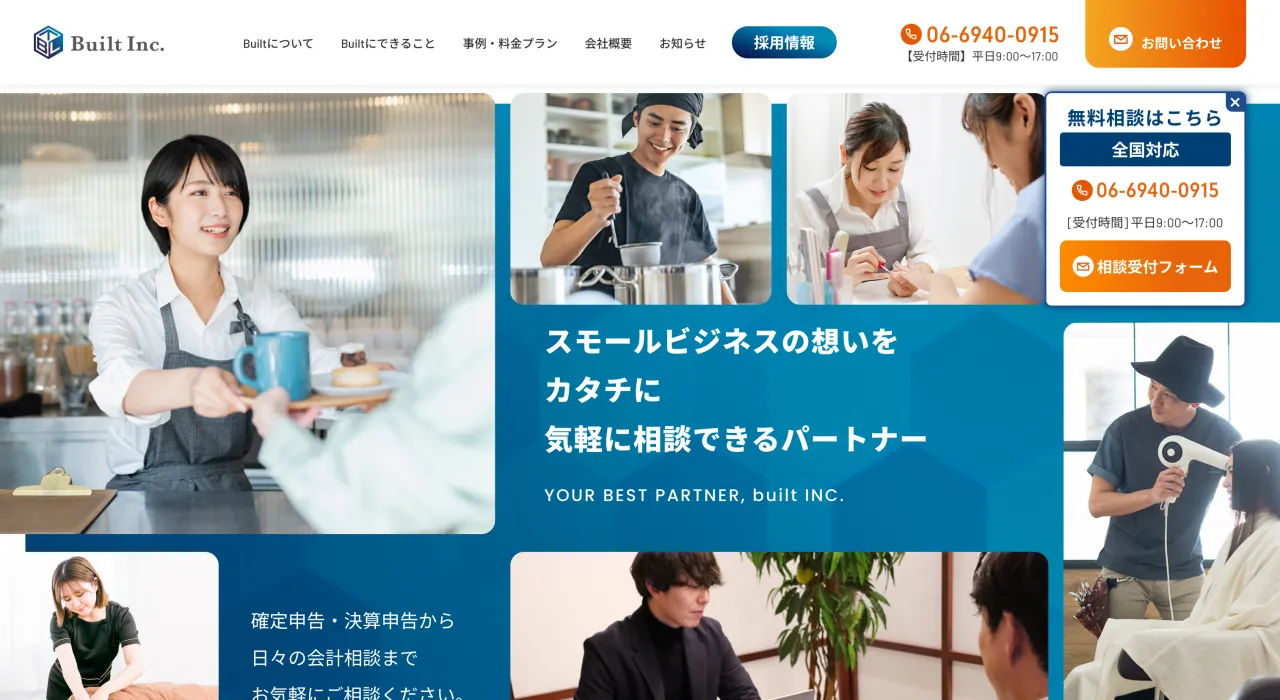
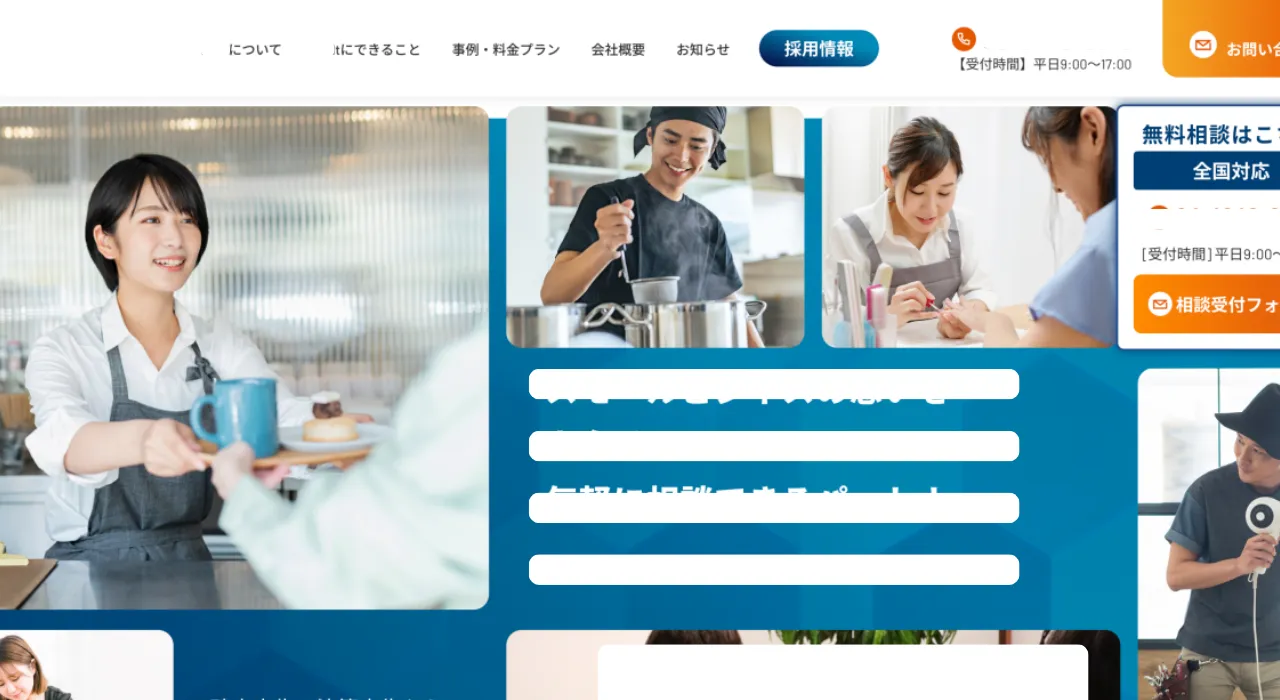
案件追加

diff --git a/work-web.html b/work-web.html
@@ -1,0 +1,80 @@
+<!DOCTYPE html>
+<html lang="ja">
+
+<head>
+  <meta charset="UTF-8" />
+  <meta name="viewport" content="width=device-width, initial-scale=1.0" />
+  <title>実務案件｜運用・修正 web制作会社｜加藤-Web制作ポートフォリオ</title>
+  <link rel="stylesheet" href="/front-portfolio/style.css" />
+</head>
+
+<body>
+  <header>
+    <h1>
+      <a href="/front-portfolio/index.html">
+        <div class="logo-wrap">
+          <img src="/front-portfolio/img/logo.png" alt="加藤" />
+        </div>
+      </a>
+    </h1>
+    <nav>
+      <div class="contents-wrap">
+        <a href="/front-portfolio/index.html#works">制作実績</a>
+        <!-- <a href="/front-portfolio/profile.html">プロフィール</a> -->
+        <a href="mailto:yutaskysazanami@gmail.com">お問い合わせ</a>
+      </div>
+    </nav>
+  </header>
+
+  <main>
+    <div class="body-wrap work-detail">
+      <a href="/front-portfolio/#works" class="back-link">← 戻る</a>
+
+      <h2 class="work-title">制作会社パートナー </h2>
+
+      <div class="img-wrap">
+        <img src="/front-portfolio/img/wp-thumbnail03.webp" alt="プロジェクトのサムネイル" class="work-image" />
+      </div>
+
+      <section class="work-info">
+        <h3>概要</h3>
+        <div class="contents-wrap">
+          <p>
+            制作会社パートナーとして月300~400本受注のある制作会社のパートナーとして、既存のお客様のサイト修正から、新規制作後の微修正
+            を担当。フォトショップ、イラストレーターでの画像加工、構造化データ、AIO対策の業務を請け負いました。毎日納品がある大量修正に対応実績がございます。
+          </p>
+        </div>
+      </section>
+
+      <section class="work-meta">
+        <h3>制作情報</h3>
+        <div class="contents-wrap">
+          <ul>
+            <li>
+              <strong>在籍期間：</strong>2026/01 ~ 2026/12
+            </li>
+            <li>
+              <strong>担当範囲：</strong>コーディング／構造化データ設置／海外エンジニアへの指示／画像加工／独自CMS習得
+            </li>
+            <li>
+              <strong>使用技術：</strong>HTML / CSS / JavaScript / 独自CMS /
+            </li>
+            <!-- <li>
+              <strong>URL：</strong>
+            </li> -->
+          </ul>
+        </div>
+      </section>
+    </div>
+  </main>
+
+  <footer>
+    <div class="wrap">
+      <a class="link github" href="https://github.com/utough?tab=repositories"></a>
+      <a class="link mail" href="mailto:yutaskysazanami@gmail.com"></a>
+    </div>
+    <p>©2026 加藤</p>
+  </footer>
+</body>
+
+</html>

diff --git a/work-wp02.html b/work-wp02.html
@@ -1,0 +1,79 @@
+<!DOCTYPE html>
+<html lang="ja">
+
+<head>
+  <meta charset="UTF-8" />
+  <meta name="viewport" content="width=device-width, initial-scale=1.0" />
+  <title>実務案件｜新規制作 法人様ウェブサイト｜加藤-Web制作ポートフォリオ</title>
+  <link rel="stylesheet" href="/front-portfolio/style.css" />
+</head>
+
+<body>
+  <header>
+    <h1>
+      <a href="/front-portfolio/index.html">
+        <div class="logo-wrap">
+          <img src="/front-portfolio/img/logo.png" alt="加藤" />
+        </div>
+      </a>
+    </h1>
+    <nav>
+      <div class="contents-wrap">
+        <a href="/front-portfolio/index.html#works">制作実績</a>
+        <!-- <a href="/front-portfolio/profile.html">プロフィール</a> -->
+        <a href="mailto:yutaskysazanami@gmail.com">お問い合わせ</a>
+      </div>
+    </nav>
+  </header>
+
+  <main>
+    <div class="body-wrap work-detail">
+      <a href="/front-portfolio/#works" class="back-link">← 戻る</a>
+
+      <h2 class="work-title">法人様ホームページ </h2>
+
+      <div class="img-wrap">
+        <img src="/front-portfolio/img/wp-thumbnail01.webp" alt="プロジェクトのサムネイル" class="work-image" />
+      </div>
+
+      <section class="work-info">
+        <h3>概要</h3>
+        <div class="contents-wrap">
+          <p>
+            ホームページの制作をご依頼いただき、デザイン還付をもとに新規制作いたしました。
+            大枠を個人情報を隠した状態のスクリーンショットを用いてAIコーディングを行いました。
+            MV、全体の文字サイズ、カラー、ピクセルパーフェクトなどの調整コーディングは自身で行なっております。<br><span>一部情報を白ぼかししております。</span>
+          </p>
+        </div>
+      </section>
+
+      <section class="work-meta">
+        <h3>制作情報</h3>
+        <div class="contents-wrap">
+          <ul>
+            <li>
+              <strong>担当範囲：</strong>コーディング／構造化データ設置
+            </li>
+            <li>
+              <strong>使用技術：</strong>HTML / CSS / JavaScript / WordPress
+            </li>
+            <!-- <li>
+              <strong>URL：</strong><a href="XXX" target="_blank"
+                rel="noopener">XXXX/</a>
+            </li> -->
+          </ul>
+        </div>
+      </section>
+    </div>
+  </main>
+
+  <footer>
+    <div class="wrap">
+      <a class="link github" href="https://github.com/utough?tab=repositories"></a>
+      <a class="link mail" href="mailto:yutaskysazanami@gmail.com"></a>
+    </div>
+    <p>©2026 加藤</p>
+  </footer>
+</body>
+
+</html>

diff --git a/index.html b/index.html
@@ -47,15 +47,13 @@
             <div class="img-wrap">
               <img src="/front-portfolio/img/wp-thumbnail03.webp" alt="WPサムネ" />
             </div>
-            <h3>【実務】既存Webサイトの修正・改修</h3>
+            <h3>【実務】Webサイトの継続的な運用・改修</h3>
             <p>
-              独自CMS／JS／大量案件<br>
-              複数案件・複数の修正依頼に継続的に対応<br>
-              HTML/CSSを用いたレイアウト修正、CMS上での更新・調整、不具合対応など、複数の制作案件を並行して対応しています。
+              HTML/CSSを用いた既存サイトの修正、CMS上での更新・調整、表示・仕様確認、不具合対応など、複数のWeb制作案件に継続的に従事。
             </p>
-            <!-- <div class="to_detail-link">
-              <a href="/front-portfolio/work-wp01.html">詳細</a>
-            </div> -->
+            <div class="to_detail-link">
+              <a href="/front-portfolio/work-web.html">詳細</a>
+            </div>
           </div>
 
           <div class="work-card">
@@ -64,9 +62,9 @@
             </div>
             <h3>【実務】法人様ワードプレスサイト新規構築</h3>
             <p>Wordpress／構造化データ／TOP+5ページ</p>
-            <!-- <div class="to_detail-link">
-              <a href="/front-portfolio/work-wp01.html">詳細</a>
-            </div> -->
+            <div class="to_detail-link">
+              <a href="/front-portfolio/work-wp02.html">詳細</a>
+            </div>
           </div>
 
           <div class="work-card">
